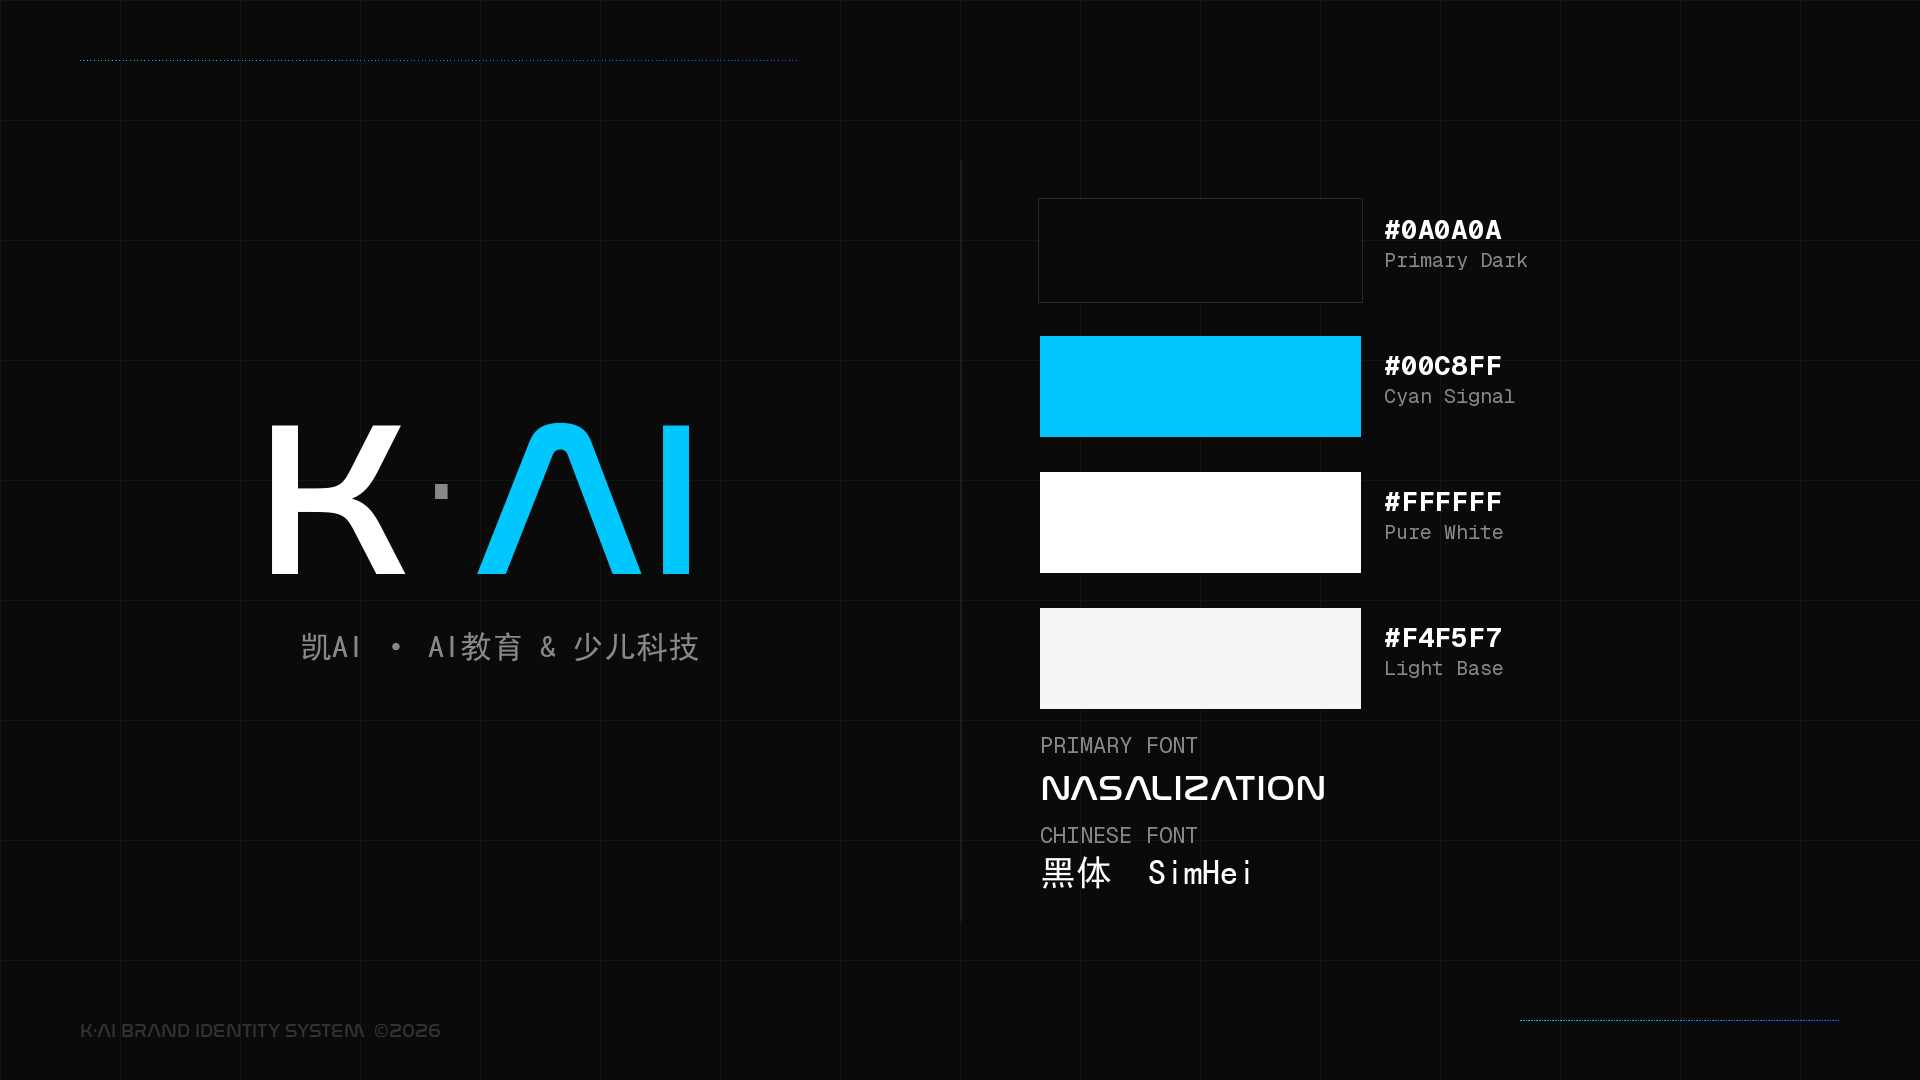
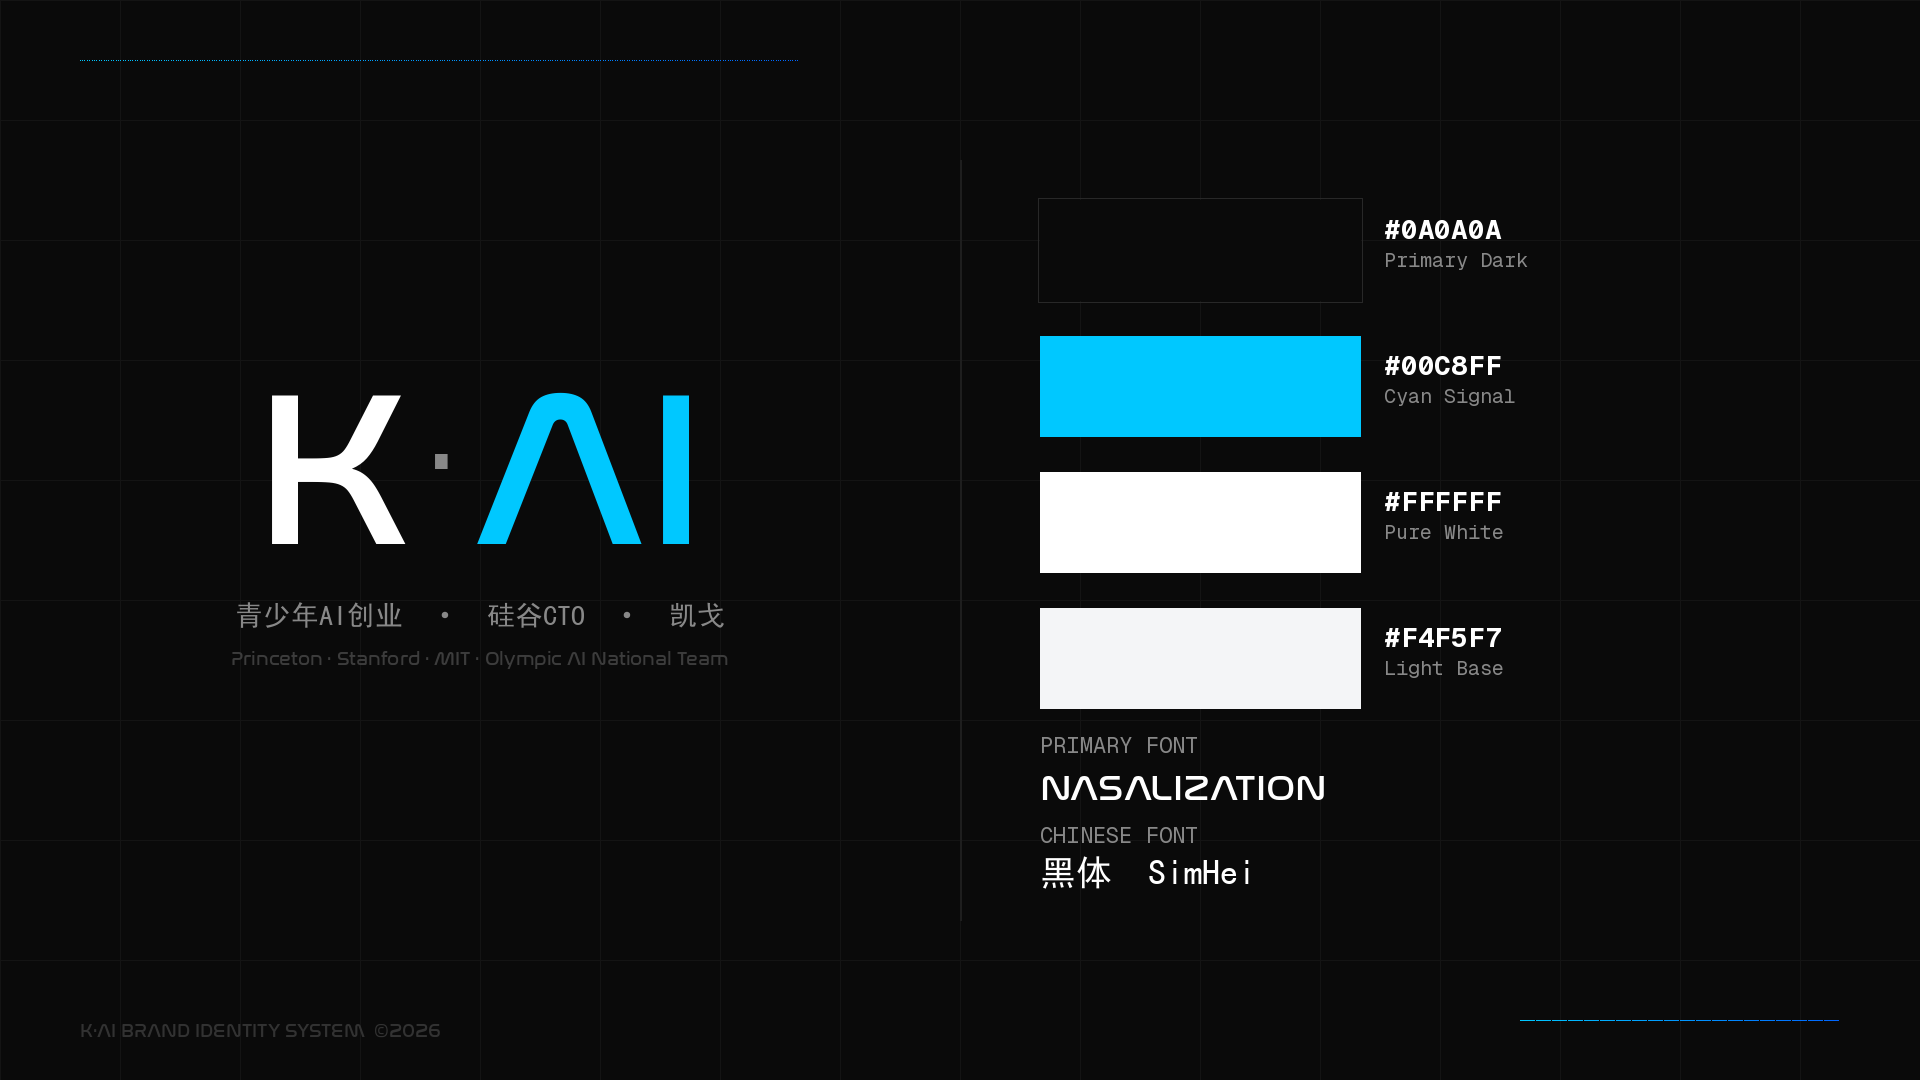
refactor: update positioning from kids-tech to youth AI entrepreneurship
- PLAN.md: new positioning + core assets (Olympic AI team, Ivy admits)
- brand-philosophy.md: add brand position + tagline
- brand-overview.png / logo-dark.png / logo-light.png: updated subtext
  from "AI教育 & 少儿科技" → "青少年AI创业导师 · 硅谷CTO"
  added: Princeton · Stanford · MIT · Olympic AI National Team

Changed region(s): [[0.125, 0.3667, 0.375, 0.6111], [0.3438, 0.3667, 0.375, 0.3972], [0.125, 0.3667, 0.1562, 0.3972]]

diff --git a/PLAN.md b/PLAN.md
@@ -4,7 +4,15 @@
 
 **凯戈身份：** Magikid AIRobotics Lab CTO & 创始人，硅谷教育科技背景，34 个加盟店，品牌包括 MagiCode / Magikid。
 
-**创业方向：** AI教育 & 少儿科技自媒体，延伸主业品牌，同时打造个人 IP。
+**创业方向：** 青少年 AI 创业导师，打造个人 IP「K·AI 凯戈」。
+帮助 12-22 岁中美青少年，用 AI 赢得竞赛、进入名校、开启第一家公司。
+
+**核心资产：**
+- 美国奥林匹克AI国家队学生（全美4人之一）· 团体金牌 → 斯坦福
+- 学生录取：普林斯顿 · 斯坦福 · MIT
+- 12年机器人赛道深耕，VEX 世锦赛冠军级战绩
+- 硅谷 CTO，自身就是创业者
+- 抖音现有 4 万粉丝（Python编程积累）
 
 **平台：** 全平台 — 微信公众号、小红书、抖音/视频号、YouTube（中英双语）
 

diff --git a/design/brand-philosophy.md b/design/brand-philosophy.md
@@ -4,6 +4,9 @@
 **Born:** 2026, Silicon Valley → China  
 **Soul:** The precise frequency where human intelligence and machine intelligence converge.
 
+**Brand Position:** 青少年AI创业导师 · From Competition to Company  
+**Tagline:** 带出普林斯顿、斯坦福、MIT 学生的硅谷CTO，现在教下一代用 AI 开启创业。
+
 ---
 
 ## I. The Signal Doctrine
